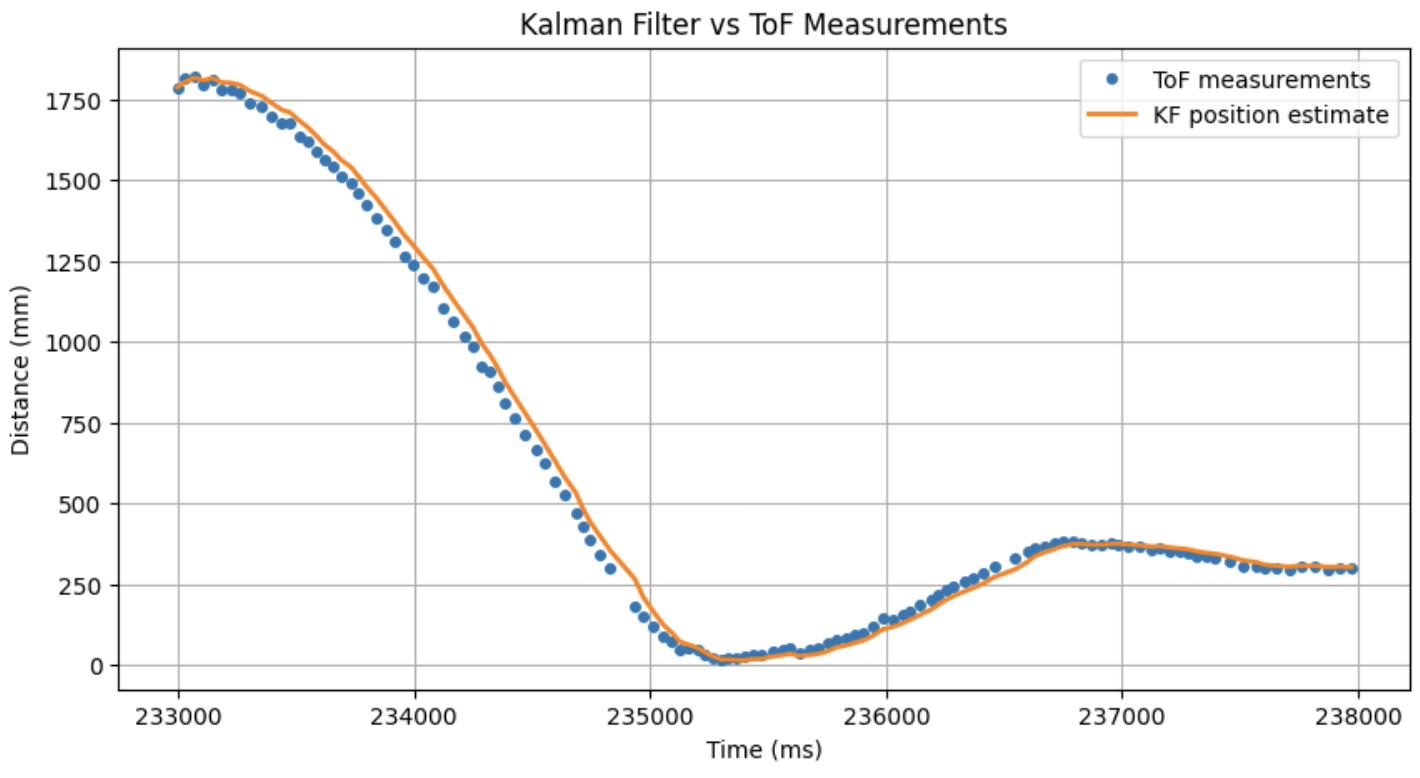
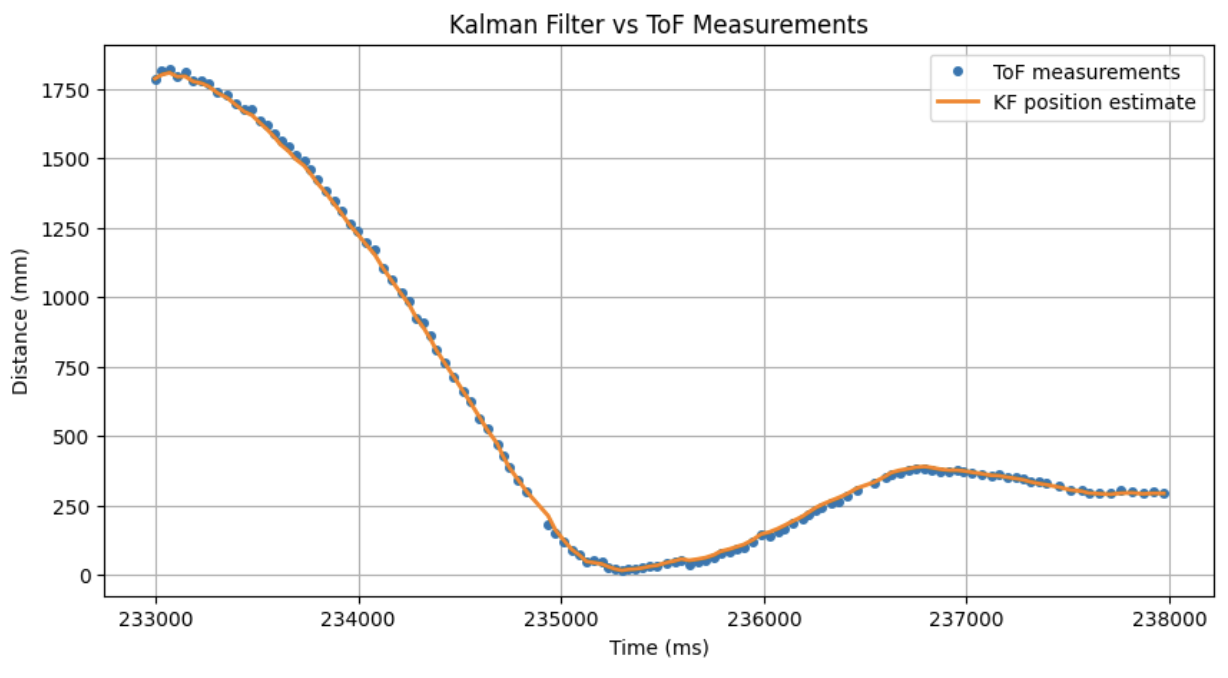
Lab7 submission

Changed region(s): [[0.0, 0.0, 1.0, 0.9292], [0.4951, 0.9292, 0.5879, 0.9912], [0.1238, 0.4336, 0.1547, 0.4646]]

diff --git a/lab7.html b/lab7.html
@@ -554,7 +554,7 @@
                     <p>Now, we get d as: <code>d = 1 / 2.731 = ~ 0.3662 </code> and, plugging it in m we get: <code>m = 0.3662 * 1.574 / ln(0.1) = ~ 0.2503</code></p>
                     <p>As these are for S.I. but our ToF sensors are getting measurements in mm, we have to divide them by 1000 to work for mm.</p>
                     <p><b>Final coefficients:</b> <code>d = 0.0003662</code> and <code>m = 0.0002503</code></p>
-                    <p>This makes <code>-d/m = ~1.463</code> and <code>1/m = 3995.21</code></p>
+                    <p>This makes <code>-d/m = ~1.463</code> and <code>-1/m = -3995.21</code></p>
                     <p>As a result, our A, B matrices are: </p>
                     <div class="lab-image" style="width: 80%; max-width: 800px;">
                         <img src="resources/Lab7/A_B_matrices.png" alt="Dynamics Equations">
@@ -577,7 +577,7 @@ m = 0.0002503
 A = np.array([[0,1],
              [0,-d/m],])
 B = np.array([[0],
-             [1/m],])
+             [-1/m],])
 
 usefulTimestamps = Timestamps[0:75]
 
@@ -600,6 +600,8 @@ print(Ad, Bd, C)
                         <img src="resources/Lab7/discretized_matrices.png" alt="Dynamics Equations">
                     </div>
                     <p class="image-caption">Fig 7: Discretized Matrices</p> 
+                    <h3>Important Note: the second entry of B (and Bd) had negative sign to work</h3>
+                    <br>
                     <p>Then, the state vector was initialized with: <code>x = np.array([[usefulToFs[0]],[0]])</code></p>
                     <p>To estimate the uncertainty, we have to define sigma 1, 2 and 3. sig_u is our process noise. It is the extend to which we trust the Kalman Filter. On the other hand, sig_z is our sensor noise. It is hwo muhc we trust the ToF sensor.</p>
                     <p>For our process noise, sigma_1 is how much we trust the position of our model, while sigma_2 is the trust in the velocity of the model. These two were set to sigma_1=sigma_2=sqrt(100/dt)= 52.97, with a dt of 0.03702 inintially, translating to an uncertainty of ±52.97mm</p>
@@ -684,7 +686,7 @@ Matrix<2,2> Ad = {1, 0.04112397,
                   0, 0.93983381};
 
 Matrix<2,1> Bd = {0.0,
-                  164.29870932};
+                  -164.29870932};
 
 Matrix<1,2> C_kf = {1, 0};
 
@@ -743,27 +745,69 @@ float kf_pos = 0;
                         <img src="resources/Lab7/robot_experimental_pwm.png" alt="Dynamics Equations">
                     </div>
                     <p class="image-caption">Fig 13: PWM values for test run</p>
-                    <p><br>To fully implement the KF, I firstly changed Sigma_z to 1000.0 (sigma_3 = ~31.65) to increase sensor uncertainty. Then, I made the following change in the loop so that the current position is the KF's prediction and not the ToF measurement:</p>
+                    <p><br>Up until now the prediction was only happening on measured ToF data. And since the measurement held a lot of weight, it was only natural that the KF would follow the measurements curve.</p>
+                    
+                    <p><br>To fully implement the KF so that it predicted the position of the car even when no ToF measurements were available, I firstly changed sigma_1 and sigma_2 to 60 (Sigma_u = 3600) to increase model uncertainty. I also made a new KF function to be able to call predict without having a new ToF measurement, and I also had it dynamically calculate the Ad and Bd matrices based on the measured dt between the loop iterations:</p>
 <div class="code-block">
-<pre>curr_pos = ToFmeasurement(); 
+<pre>void kalmanPredict(float pwm_input, float dt_actual) {
+    float dt_seconds = dt_actual / 1000.0;
+    
+    Matrix<2,2> Ad_dynamic = {1.0, dt_seconds,
+                              0.0, 1.0 - 1.463 * dt_seconds};
+
+    Matrix<2,1> Bd_dynamic = {0.0,
+                              -3995.21 * dt_seconds};
+    
+    Matrix<1,1> u_kf = {pwm_input / 120.0f};
+    
+    kf_mu = Ad_dynamic * kf_mu + Bd_dynamic * u_kf;
+    kf_sigma = Ad_dynamic * kf_sigma * ~Ad_dynamic + Sigma_u;
+}
+
+void kalmanUpdate(float measurement) {
+    Matrix<1,1> y_kf = {measurement};
+    
+    Matrix<1,1> sigma_m = C_kf * kf_sigma * ~C_kf + Sigma_z;
+    Matrix<2,1> kf_gain = kf_sigma * ~C_kf * Inverse(sigma_m);
+    Matrix<1,1> y_m = y_kf - C_kf * kf_mu;
+    
+    kf_mu = kf_mu + kf_gain * y_m;
+    kf_sigma = (Matrix<2,2>({1,0,0,1}) - kf_gain * C_kf) * kf_sigma;
+}
+
+void kalmanFilter(float measurement, float pwm_input, float dt) {
+    kalmanPredict(pwm_input, dt);   
+    kalmanUpdate(measurement);  
+}
+</pre>
+                    </div>
+
+                    <p>Additionally, I made the loop as fast as possible and when ToF data are not available, only KF predicted data are passed to the PI control like so:</p>
+<div class="code-block">
+<pre>kalmanPredict((float)PWM, (float)(PID_time-PID_prev_time));
+if(distanceSensor0.checkForDataReady()){ 
+    ToF_measurement = distanceSensor0.getDistance();
+    kalmanUpdate(ToF_measurement);             
+    distanceSensor0.clearInterrupt();
+                                        }
+
 ToFtimestamps[PID_counter] = PID_time;
-ToFs0[PID_counter] = curr_pos;
-if(!kf_initialized) {
-kf_mu(0,0) = curr_pos;
-kf_mu(1,0) = 0;
-kf_initialized = true;
-                    }
-kalmanFilter(curr_pos, (float)PWM);
+ToFs0[PID_counter] = ToF_measurement;
+
 kf_pos = kf_mu(0,0); 
-kf_ToFs[PID_counter]=kf_pos;
-//error_p = curr_pos - goal_pos; // previous error based only on ToF
-error_p = kf_pos - goal_pos;  // KF position is taken for the error
+KF_ToFs[PID_counter]=kf_pos;
+
+//error_p = curr_pos - goal_pos;  // OLD ERROR
+
+
+error_p = kf_pos - goal_pos;  // KF based error
+error_i += error_p*(PID_time-PID_prev_time)/1000;
 </pre>
                     </div>
                     <p>Now we can see the result of the implemented KF:</p>
                     <div class="video-container">
                         <iframe 
-                            src="https://www.youtube.com/embed/YrSJdivkuEE"
+                            src="https://www.youtube.com/embed/KD0ivosIo7A"
                             allow="accelerometer; autoplay; clipboard-write; encrypted-media; gyroscope; picture-in-picture" 
                             allowfullscreen>
                         </iframe>
@@ -778,8 +822,10 @@ error_p = kf_pos - goal_pos;  // KF position is taken for the error
                     </div>
                     <p class="image-caption">Fig 15: PWM values for implementation run</p>
 
-                    <p><br>We can see that, by decreasing the certainty of the ToF measurements, the KF curve slightly deviates from the measurements. 
+                    
                         <br><br>As our model isn't really accurate, and the ToF is fairly reliable when moving, I decided to keep my KF's uncertainties like this fow now. In later labs, I might go back and increase the ToF uncertainty if I determine it is needed.</p>
+
+                    
                 </div>
             </section>
 
